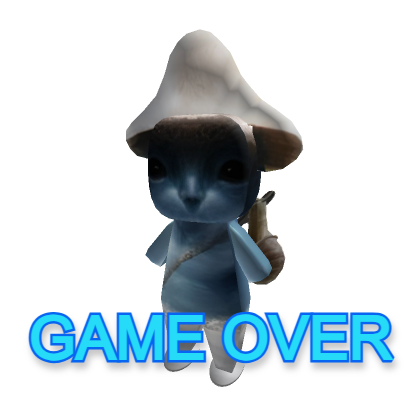
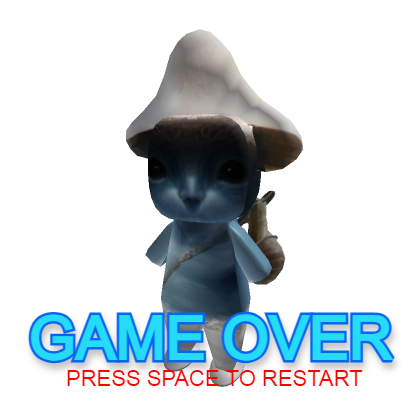
More enemies and possibility to restart

Changed region(s): [[0.1548, 0.8667, 0.8667, 0.9286]]

diff --git a/main.py b/main.py
@@ -29,15 +29,23 @@ def control(characters, event, enemies, gameOverImage):
     if len(characters) > 0:
         mainCharacter = characters[0]
         for enemy in enemies:
-            del characters[0]
+            if len(characters) > 0:
+                del characters[0]
         
         if event.type == pygame.KEYDOWN:
             if event.key == pygame.K_SPACE:
-                for enemy in enemies:
-                    enemy[3] = True 
+                    randx = random.randint(200, 800)
+                    randy = random.randint(200, 800)
+                    color = random.randint(1, 3)
+                    if color == 1:
+                        enemies.append(["crocorange.png", randx, randy, True])
+                    elif color == 2:
+                        enemies.append(["croc.png", randx, randy, True])
+                    else:
+                        enemies.append(["crocpurple.png", randx, randy, True])
     
         keys = pygame.key.get_pressed()
-    
+        # movement
         if keys[pygame.K_RIGHT]:
             if mainCharacter[1] < 880:
                 mainCharacter[1] += playerSpeed
@@ -56,9 +64,9 @@ def control(characters, event, enemies, gameOverImage):
         
         characters.append(mainCharacter)
 
-        # Tarkista osuuko pelaaja viholliseen
+        # collision check
         for enemy in enemies:
-            if mainCharacter[1] + 50 > enemy[1] and mainCharacter[1] < enemy[1] + 50 and mainCharacter[2] + 50 > enemy[2] and mainCharacter[2] < enemy[2] + 50:
+            if mainCharacter[1] + 100 > enemy[1] and mainCharacter[1] < enemy[1] + 50 and mainCharacter[2] + 200 > enemy[2] and mainCharacter[2] < enemy[2] + 50:
                 gameOverImage[3] = True
                 pygame.mixer.music.load('Smurf.wav')
                 pygame.mixer.music.play(-1)
@@ -75,12 +83,11 @@ def enemyMovement(enemies, speed):
                 enemy[2] = random.randint(0, 1000)
             enemy[1] += 1
 
+
 def main():
     characters = [["player.png", 100, 100, True]]
-    enemies = [["croc.png", 400, 400, False]]
+    enemies = [["croc.png", 400, 400, True], ["crocorange.png", 400, 400, True]]
     gameOverImage = ["gameover.png", 250, 200, False]
-    print(characters)
-    enemy1 = enemies[0]
     while True:
         event = pygame.event.poll()
         if event.type == pygame.QUIT:
@@ -91,6 +98,13 @@ def main():
         enemyMovement(enemies, 1)
         drawing(canvas, characters, enemies, gameOverImage)
         control(characters, event, enemies, gameOverImage)
+        if gameOverImage[3] == True:
+            if event.type == pygame.KEYDOWN:
+                if event.key == pygame.K_SPACE:
+                    characters = [["player.png", 100, 100, True]]
+                    enemies = [["croc.png", 400, 400, True], ["crocorange.png", 400, 400, True]]
+                    gameOverImage = ["gameover.png", 250, 200, False]
+                    pygame.mixer.music.stop()
         
         pygame.display.flip()
 
